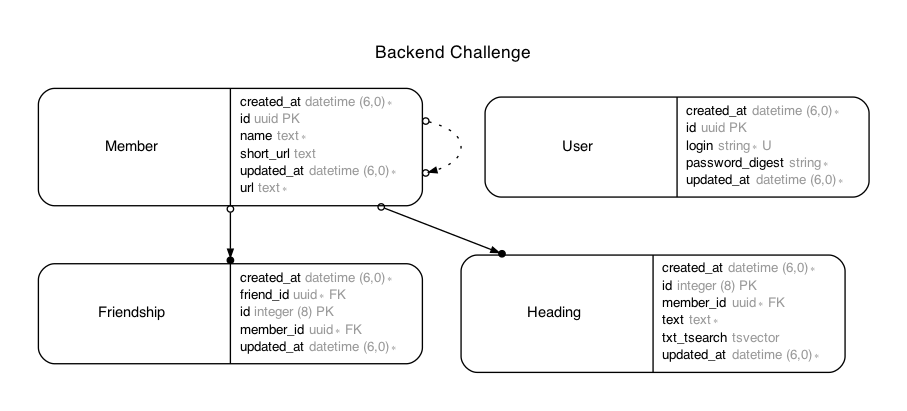
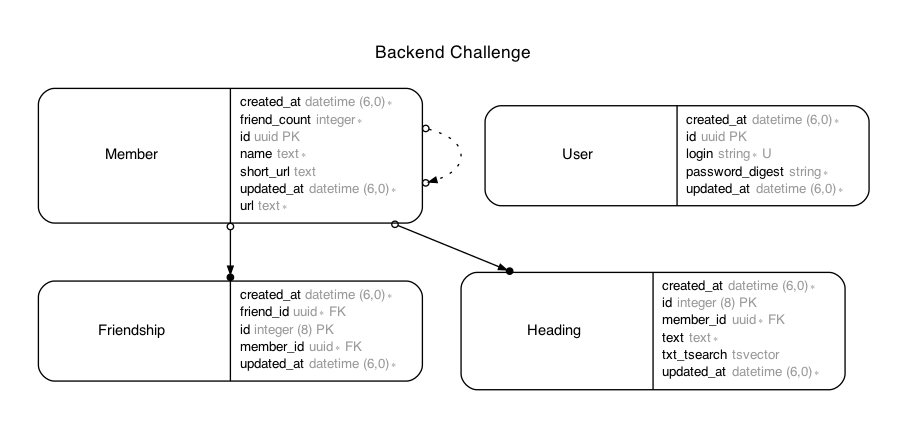
member endpoints and specs

diff --git a/spec/acceptance/api/v1/member_spec.rb b/spec/acceptance/api/v1/member_spec.rb
@@ -1,0 +1,157 @@
+# frozen_string_literal: true
+
+require 'rails_helper'
+require 'rspec_api_documentation/dsl'
+require 'sidekiq/testing'
+require_relative '../../../support/helpers/api/v1/authorization'
+
+resource 'api/v1/member' do
+  include Helpers::Api::V1
+
+  let(:user) { FactoryBot.create(:user) }
+  let(:bearer_token) { jwt_bearer_token(user) }
+  let(:raw_post) { params.to_json }
+  let(:rick) { { 'name' => 'Rick Sanchez', 'url' => 'https://dimension-c-137.org/rick-sanchez' } }
+  let(:morty) { { 'name' => 'Morty Smith', 'url' => 'https://dimension-c-137.org/morty-smith' } }
+  let(:member) { create(:member, url: 'https://nokogiri.org') }
+  let(:member_creation) do
+    Sidekiq::Testing.fake!
+    Sidekiq::Worker.clear_all
+
+    member
+
+    Sidekiq::Worker.drain_all
+    member.reload
+  end
+
+  explanation 'Member management'
+
+  header 'Accept', 'application/vnd.api+json'
+  header 'Content-Type', 'application/json'
+  header 'Authorization', :bearer_token
+
+  post '/api/v1/members' do
+    with_options scope: :data, with_example: true do
+      parameter :name, 'The name of the Member', required: true
+      parameter :url, 'The website URL of the Member', required: true
+    end
+
+    context '201' do
+      let(:payload) do
+        {
+          data: {
+            type: 'member',
+            attributes: {
+              name: rick['name'],
+              url: rick['url']
+            }
+          }
+        }
+      end
+      let(:expected_response) do
+        {
+          data: {
+            type: 'member',
+            attributes: {
+              friend_count: 0,
+              name: rick['name'],
+              short_url: nil,
+              url: rick['url']
+            }
+          }
+        }
+      end
+
+      example 'Create a Member' do
+        do_request(payload)
+        expect(response_body).to include_json(expected_response)
+        expect(status).to eq 201
+      end
+    end
+
+    context '422' do
+      let(:bad_payload) do
+        {
+          data: {
+            type: 'member',
+            attributes: {
+              name: rick['name']
+            }
+          }
+        }
+      end
+      let(:expected_response) do
+        {
+          errors: [
+            {
+              code: '100',
+              detail: "Url can't be blank, Url is not a valid URL",
+              status: 'unprocessable_entity',
+              title: "Member creation failed"
+            }
+          ]
+        }
+      end
+
+      example 'Returns an error' do
+        do_request(bad_payload)
+        expect(response_body).to include_json(expected_response)
+        expect(status).to eq 422
+      end
+    end
+  end
+
+  get '/api/v1/members/:id' do
+    with_options scope: :data, with_example: true do
+      parameter :id, 'The member\'s UUID', required: true
+    end
+
+    context '200', :vcr do
+      let(:expected_response) do
+        {
+          data: {
+            id: member.id,
+            type: 'member',
+            attributes: {
+              friend_count: member.friends.size,
+              name: member.name,
+              short_url: member.short_url,
+              url: member.url
+            }
+          }
+        }
+      end
+
+      before do
+        member_creation
+      end
+
+      example 'Display member information' do
+        do_request(id: member.id)
+        expect(response_body).to include_json(expected_response)
+        expect(status).to eq 200
+      end
+    end
+
+    context '404' do
+      let(:expected_response) do
+        {
+          errors: [
+            {
+              code: '101',
+              detail: "Unable to find member.",
+              status: 'not_found',
+              title: 'Member not found'
+            }
+          ]
+        }
+      end
+
+      example 'Returns an error' do
+        do_request(id: 'foo')
+        expect(response_body).to include_json(expected_response)
+        expect(status).to eq 404
+      end
+    end
+  end
+end

diff --git a/app/controllers/api/v1/members_controller.rb b/app/controllers/api/v1/members_controller.rb
@@ -1,0 +1,63 @@
+module Api
+  module V1
+    class MembersController < JWTAuthorizationController
+      before_action :set_member, only: [:show, :update, :destroy]
+
+      def index
+        @members = ::Member.all
+
+        render json: ::MemberSerializer.new(@members, { is_collection: true })
+      end
+
+      def show
+        render json: member_serializer
+      end
+
+      def create
+        @member = ::Member.new(member_params)
+
+        if @member.save
+          render json: member_serializer, status: :created
+        else
+          render_app_error_code(
+            code_id: '100',
+            detail: @member.errors.full_messages.join(', ')
+          )
+        end
+      end
+
+      def update
+        if @member.update(member_params)
+          render json: member_serializer
+        else
+          render_app_error_code(
+            code_id: '102',
+            detail: @member.errors.full_messages.join(', ')
+          )
+        end
+      end
+
+      def destroy
+        @member.destroy
+
+        head :ok
+      end
+
+      private
+
+      def set_member
+        @member = ::Member.find(params[:id])
+      rescue ActiveRecord::RecordNotFound
+        render_app_error_code(code_id: '101')
+      end
+
+      def member_params
+        params.from_jsonapi.require(:member).permit(:name, :url)
+      end
+
+      def member_serializer
+        ::MemberSerializer.new(@member, { is_collection: false })
+      end
+    end
+  end
+end

diff --git a/spec/routing/api/v1/members_routing_spec.rb b/spec/routing/api/v1/members_routing_spec.rb
@@ -1,0 +1,29 @@
+require "rails_helper"
+
+RSpec.describe Api::V1::MembersController, type: :routing do
+  describe "routing" do
+    it "routes to #index" do
+      expect(get: "/api/v1/members").to route_to(format: :json, controller: "api/v1/members", action: "index")
+    end
+
+    it "routes to #show" do
+      expect(get: "/api/v1/members/1").to route_to(format: :json, controller: "api/v1/members", action: "show", id: "1")
+    end
+
+    it "routes to #create" do
+      expect(post: "/api/v1/members").to route_to(format: :json, controller: "api/v1/members", action: "create")
+    end
+
+    it "routes to #update via PUT" do
+      expect(put: "/api/v1/members/1").to route_to(format: :json, controller: "api/v1/members", action: "update", id: "1")
+    end
+
+    it "routes to #update via PATCH" do
+      expect(patch: "/api/v1/members/1").to route_to(format: :json, controller: "api/v1/members", action: "update", id: "1")
+    end
+
+    it "routes to #destroy" do
+      expect(delete: "/api/v1/members/1").to route_to(format: :json, controller: "api/v1/members", action: "destroy", id: "1")
+    end
+  end
+end

diff --git a/app/serializers/member_serializer.rb b/app/serializers/member_serializer.rb
@@ -1,0 +1,28 @@
+class MemberSerializer
+  include FastJsonapi::ObjectSerializer
+
+  set_id :id
+  set_type :member
+
+  attribute :friend_count do |obj|
+    obj.friends.size
+  end
+  attributes :name, :short_url, :url
+end
+
+# ## Schema Information
+#
+# Table name: `members`
+#
+# ### Columns
+#
+# Name                                    | Type               | Attributes
+# --------------------------------------- | ------------------ | ---------------------------
+# **`id`**                                | `uuid`             | `not null, primary key`
+# **`friend_count(Number of friends)`**   | `integer`          | `default(0), not null`
+# **`name(Name)`**                        | `text`             | `not null`
+# **`short_url(Shortened website URL)`**  | `text`             |
+# **`url(Website URL)`**                  | `text`             | `not null`
+# **`created_at`**                        | `datetime`         | `not null`
+# **`updated_at`**                        | `datetime`         | `not null`
+#

diff --git a/config/routes/v1.rb b/config/routes/v1.rb
@@ -3,5 +3,7 @@
 scope :api do
   namespace :v1 do
     post :authenticate, controller: :authentication, action: :create
+
+    resources :members
   end
 end
